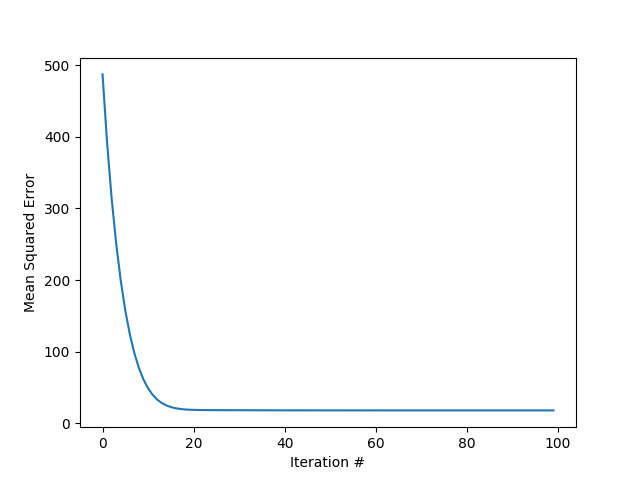
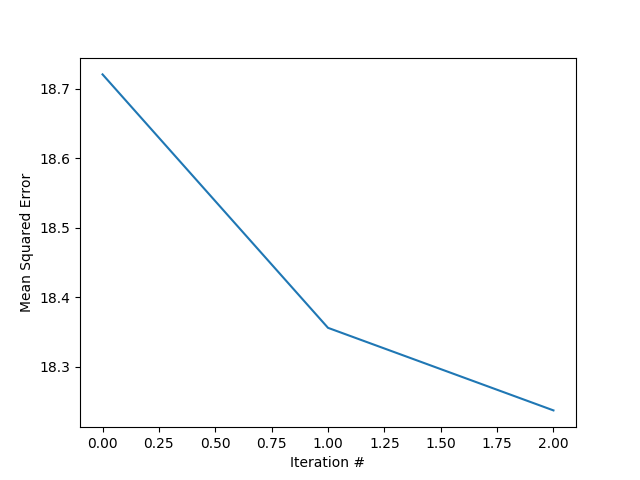
updated

diff --git a/index.js b/index.js
@@ -13,11 +13,10 @@ const { features, labels, testFeatures, testLabels } = loadCSV('./cars.csv', {
 // console.log(features, labels);
 
 const regression = new LinearRegression(features, labels, {
-  learningRate: 0.1, iterations: 100, batchSize: 10
+  learningRate: 0.1, iterations: 3, batchSize: 10
 });
 
 regression.train();
-const r2 = regression.test(testFeatures, testLabels);
 
 plot({ 
   x: regression.mseHistory.reverse(),
@@ -26,7 +25,6 @@ plot({
 })
 
 
-console.log(regression.weights.arraySync());
 console.log("b", regression.weights.arraySync()[0]);
 console.log("x1", regression.weights.arraySync()[1]);
 console.log("x2", regression.weights.arraySync()[2]);
@@ -34,6 +32,9 @@ console.log("x3", regression.weights.arraySync()[3]);
 // console.log("MSE History", regression.mseHistory);
 // console.log('R2 is', r2);
 
+regression.predict([
+  [120, 2, 380]
+]).print();
 // console.log('Updated M is: ', regression.weights.arraySync()[1], 'Updated B is: ', regression.weights.arraySync()[0]);
 
 

diff --git a/linear-regression.js b/linear-regression.js
@@ -41,6 +41,15 @@ class LinearRegression {
     }
   }
 
+  predict(observations) {
+    // [
+    //   [horsepower, weight, displacement],
+    //   [horsepower, weight, displacement],
+    //   [horsepower, weight, displacement]
+    // ]
+    return this.processFeatures(observations).matMul(this.weights);
+  }
+
   test (testFeatures, testLabels) {
     testFeatures = this.processFeatures(testFeatures)
     testLabels = tf.tensor(testLabels);
